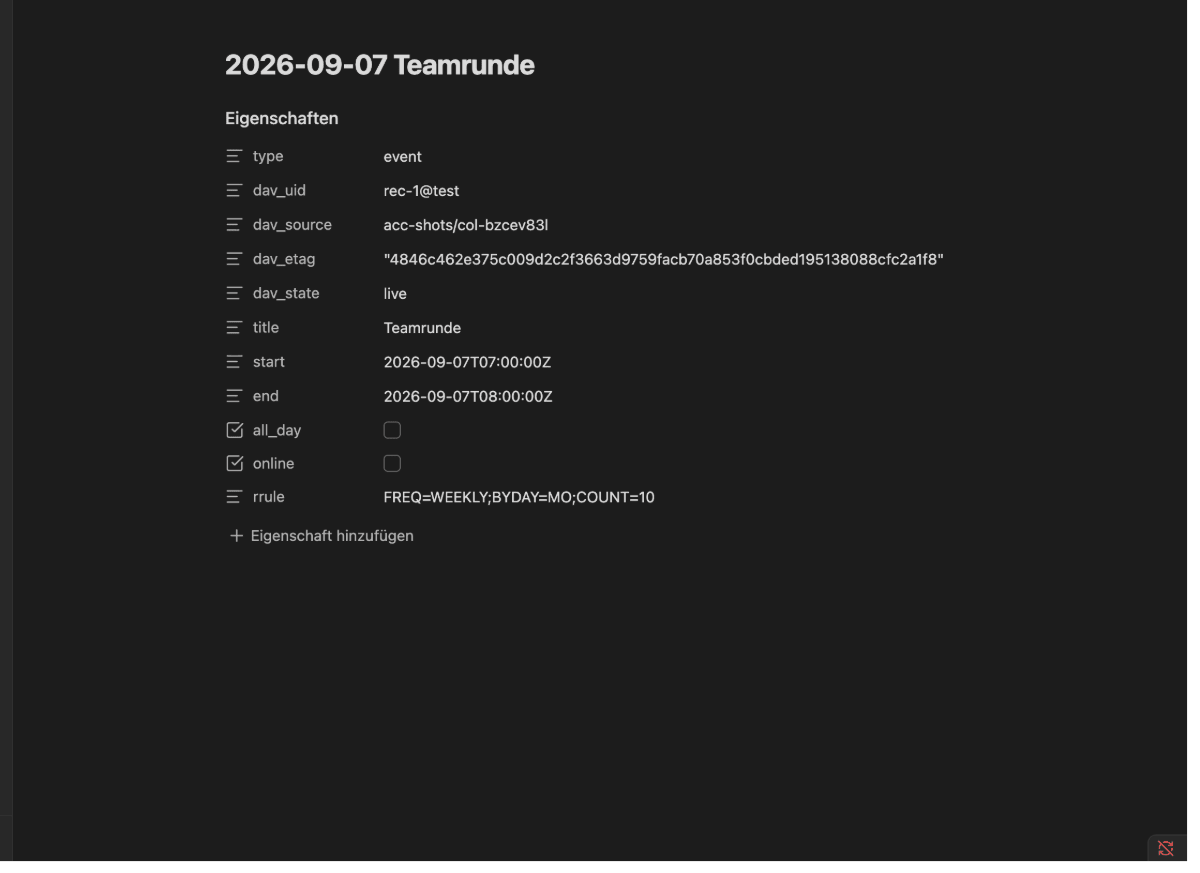
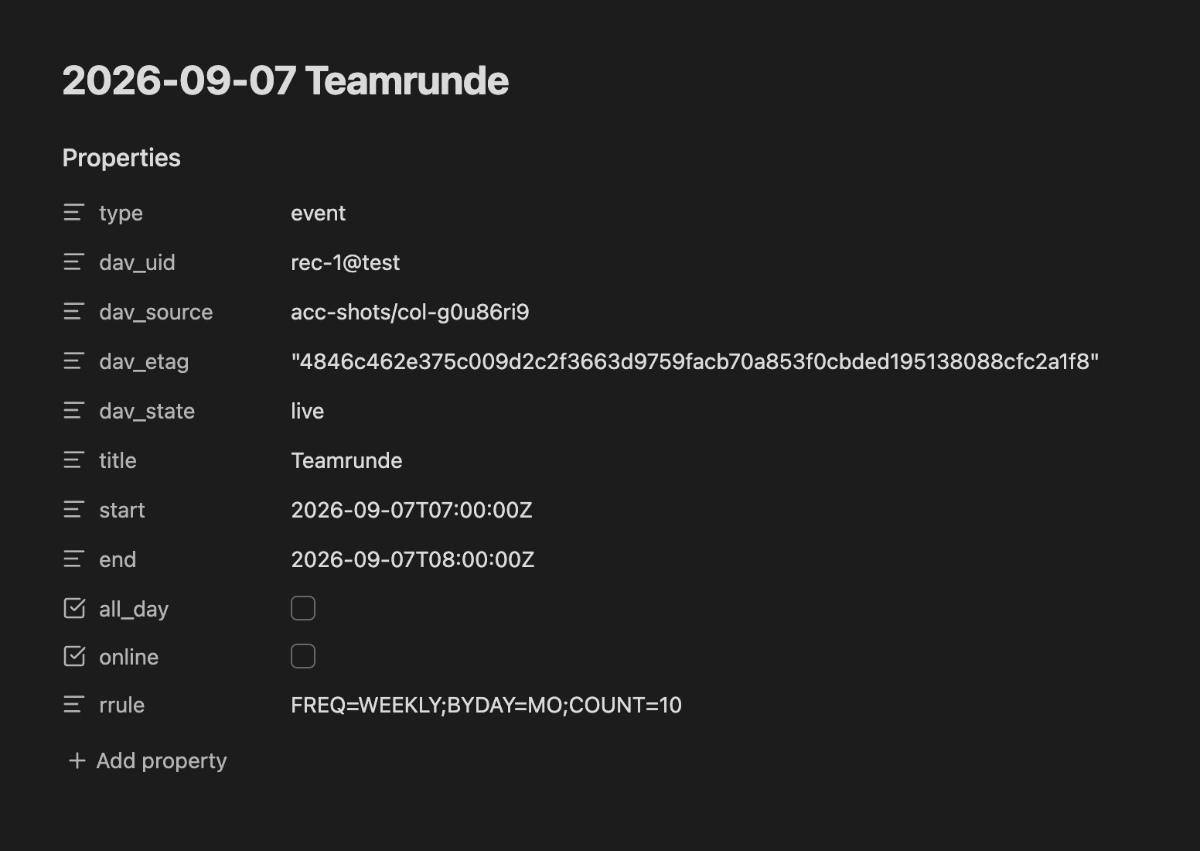
docs(readme): event-note.png enger aufgenommen, --only legt Konto und Sammlungen selbst an
Das Bild zeigte die ganze Lesefläche und hatte 270 von 873 px identische Zeilen (30,9 %, readme_lint image-whitespace, Grenze 25 %). Der Ausschnitt umfasst jetzt Titel und Eigenschaften (boxAround, 78 von 851 px, 9,2 %); der Mauszeiger wird vor der Aufnahme aus dem Ausschnitt gesetzt, damit keine Eigenschaftszeile einen Hover-Rahmen trägt. scripts/shots.ts: --only überspringt settings.png und damit das Anlegen von Konto und Sammlungen, jedes andere Bild scheiterte mit "Zustand kam nicht zustande"; die Voraussetzung wird jetzt vor dem Einzelbild hergestellt.

diff --git a/scripts/shots.ts b/scripts/shots.ts
@@ -47,6 +47,7 @@ import {
   schliesseDialog,
 } from "../../tools/obsidian-cdp/cdp.js";
 import {
+  boxAround,
   boxOf,
   capture,
   setWindowSize,
@@ -224,7 +225,18 @@ const SHOTS: Shot[] = [
       if (!gefunden) return null;
       if (!(await openExisting(cdp, gefunden, "preview"))) return null;
       await closeExtraLeaves(cdp);
-      return boxOf(cdp, ".workspace-leaf.mod-active .markdown-reading-view", PADDING);
+      // Nur Titel und Eigenschaften, nicht die ganze Lesefläche: der Rest des Fensters war leerer Hintergrund
+      // (31 % identische Zeilen im Bild, readme_lint image-whitespace, Grenze 25 %).
+      const leaf = ".workspace-leaf.mod-active .markdown-reading-view";
+      // Eine Eigenschaftszeile trägt unter dem Mauszeiger einen Rahmen (im Bild die Zeile „title“): Zeiger an den rechten
+      // Fensterrand setzen, weg vom Aufnahmeausschnitt, und den Fokus lösen.
+      await cdp.send("Input.dispatchMouseEvent", { type: "mouseMoved", x: FENSTER_BREITE - 4, y: FENSTER_HOEHE / 2, buttons: 0 });
+      await cdp.evaluate(`
+        if (document.activeElement instanceof HTMLElement) document.activeElement.blur();
+        await new Promise((r) => setTimeout(r, 300));
+        return true;
+      `);
+      return boxAround(cdp, [`${leaf} .inline-title`, `${leaf} .metadata-container`], 3 * PADDING);
     },
   },
   {
@@ -407,6 +419,13 @@ async function main(): Promise<void> {
     await new Promise((r) => setTimeout(r, 2000));
 
     await setWindowSize(cdp, FENSTER_BREITE, FENSTER_HOEHE);
+
+    // `--only` überspringt settings.png, das Konto und Sammlungen anlegt: ohne diese Voraussetzung
+    // hat der Sync nichts zu tun und jedes andere Bild scheitert mit „Zustand kam nicht zustande“.
+    if (nur && nur !== "settings.png") {
+      await seedAccount(cdp, radicale);
+      await discoverAndEnable(cdp);
+    }
 
     let ok = 0;
     let fehlend = 0;
